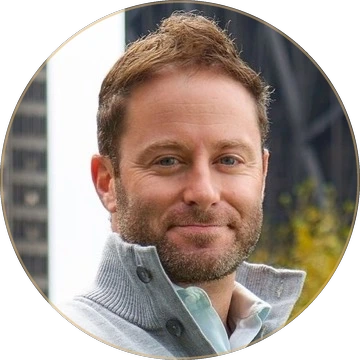
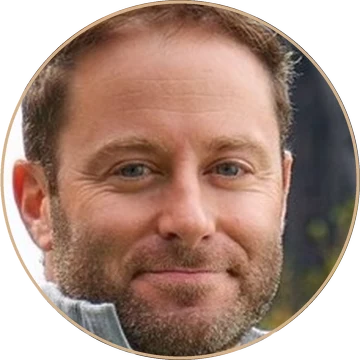
Slide 4 images flush to card edges, balanced stat labels, normalized investor faces

diff --git a/slides.html b/slides.html
@@ -653,7 +653,9 @@ nav.dots button.active::before{content:"";position:absolute;left:-.55rem;top:50%
 /* mach */
 .machrow{display:flex;align-items:stretch;gap:1.2rem;margin-top:2rem}
 .machbox{flex:1;border:1px solid rgba(184,125,68,.5);border-radius:14px;padding:1.2rem 1.5rem 1.4rem;display:flex;flex-direction:column;justify-content:flex-start}
-.machbox .mimg{width:calc(100% + 3rem);margin:-1.2rem -1.5rem .9rem;height:10.5rem;object-fit:cover;border-radius:13px 13px 0 0;display:block}
+.machbox{padding:0 0 1.4rem;overflow:hidden}
+.machbox .mimg{width:100%;margin:0 0 .9rem;height:10.5rem;object-fit:cover;display:block}
+.machbox .k,.machbox .v,.machbox .d{margin-left:1.5rem;margin-right:1.5rem}
 .machbox .k{font-family:'Inter';font-weight:600;font-size:.6rem;letter-spacing:.22em;text-transform:uppercase;color:var(--muted);margin-bottom:.4rem}
 .machbox .v{font-family:'Fraunces';font-size:clamp(1.1rem,1.9vw,1.55rem);color:var(--cream)}
 .machbox .d{font-size:.76rem;line-height:1.5;color:var(--cream-dim);margin-top:.5rem}
@@ -666,7 +668,8 @@ nav.dots button.active::before{content:"";position:absolute;left:-.55rem;top:50%
 .machstats .gr b{font-family:'Fraunces';font-size:1.25rem;font-weight:400;text-align:left}
 .machstats .gr b{color:var(--gold)}
 #mach .machstats .gr,#run .machstats .gr{justify-content:flex-start}
-#mach .machstats .gr span{font-size:.82rem}
+#mach .machstats .gr span{font-size:.95rem;color:var(--cream);font-weight:600}
+#mach .machstats .gr b{font-size:1.05rem}
 #mach .machstats .gr b{font-size:1.6rem}
 .replrow{display:flex;align-items:center;gap:.8rem;margin-top:1.6rem}
 .replrow .fx{display:block;height:var(--fh);width:calc(var(--fh) * .8875);background:var(--wood-bright);-webkit-mask:url(assets/icon-factory-hf.png) center/contain no-repeat;mask:url(assets/icon-factory-hf.png) center/contain no-repeat}
